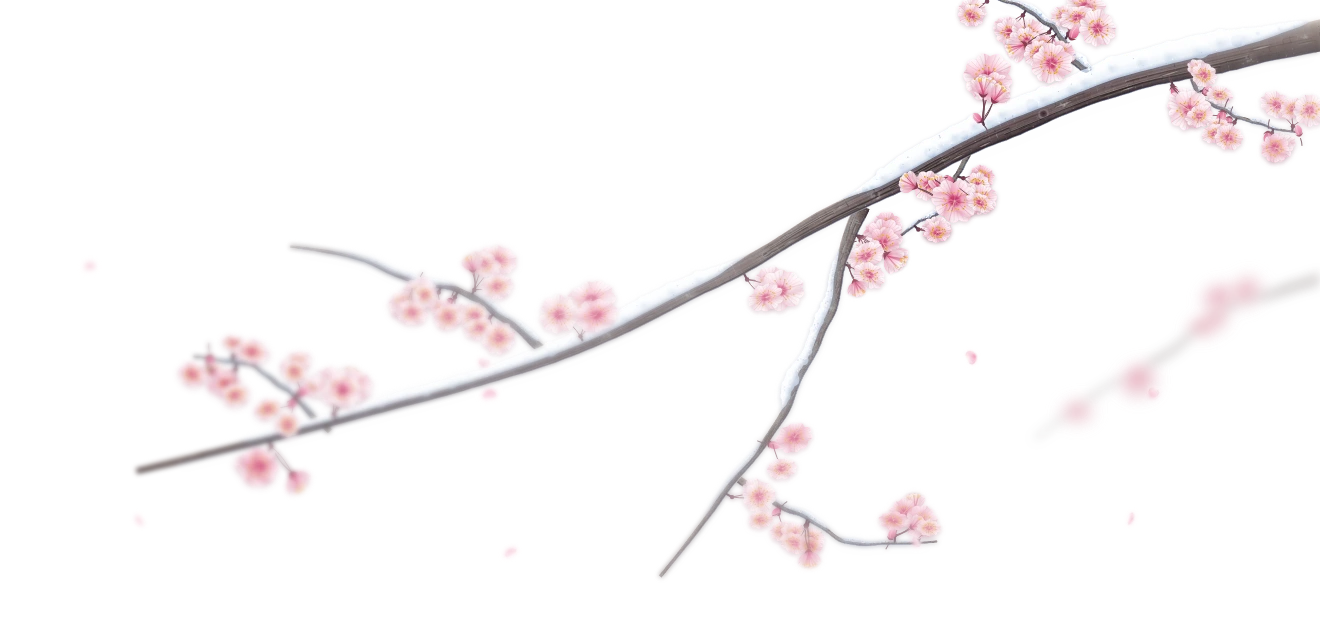
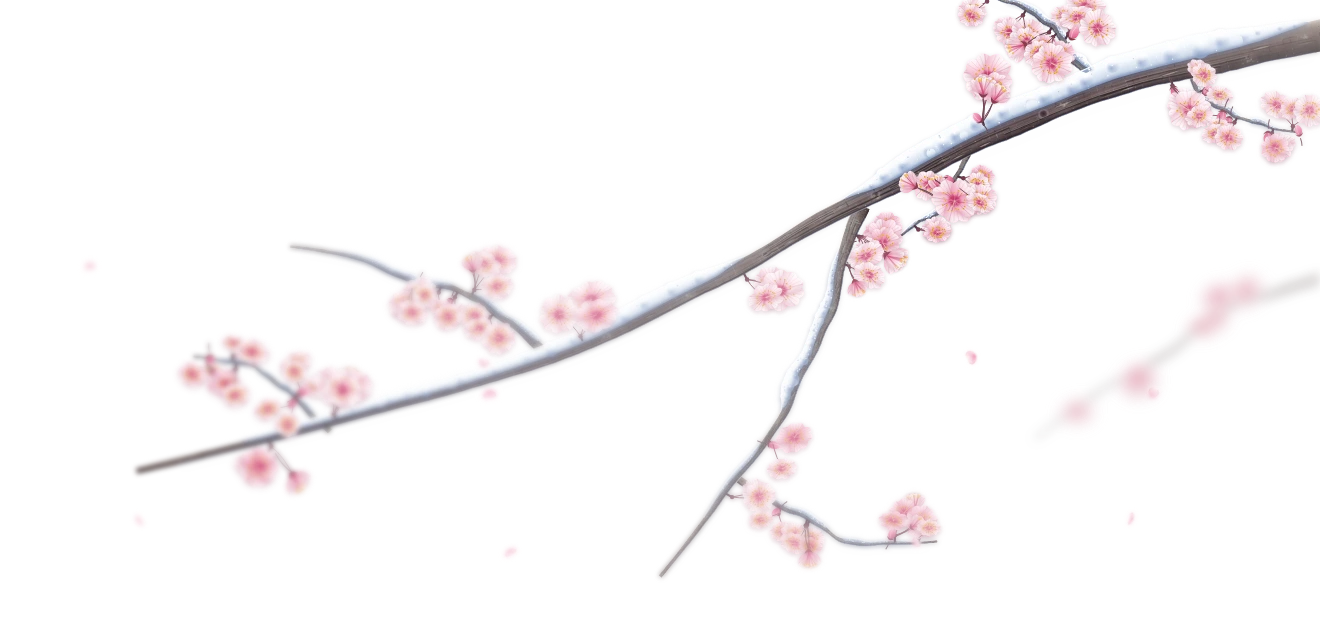
벚꽃 가지: 눈 명암 강화
Claude-Session: https://claude.ai/code/session_01YCmkjirP6u3ZT6euM2pg4b

diff --git a/src/components/Pwa.tsx b/src/components/Pwa.tsx
@@ -32,7 +32,7 @@ export function useInstall() {
   return { state, install };
 }
 
-const PAGES = 'pages-v6'; // public/sw.js 와 같은 이름
+const PAGES = 'pages-v7'; // public/sw.js 와 같은 이름
 const TABS = ['', '/wish', '/money', '/check', '/info'];
 const warmed = new Set<string>();
 

diff --git a/public/sw.js b/public/sw.js
@@ -1,5 +1,5 @@
 /* 우리 여행 서비스 워커: 인터넷이 없어도 앱이 열리게 */
-const VER = 'v6';
+const VER = 'v7';
 const PAGES = 'pages-' + VER;
 const STATIC = 'static-' + VER;
 const PRECACHE = ['/', '/manifest.webmanifest', '/icons/icon-192.png', '/icons/icon-512.png'];
